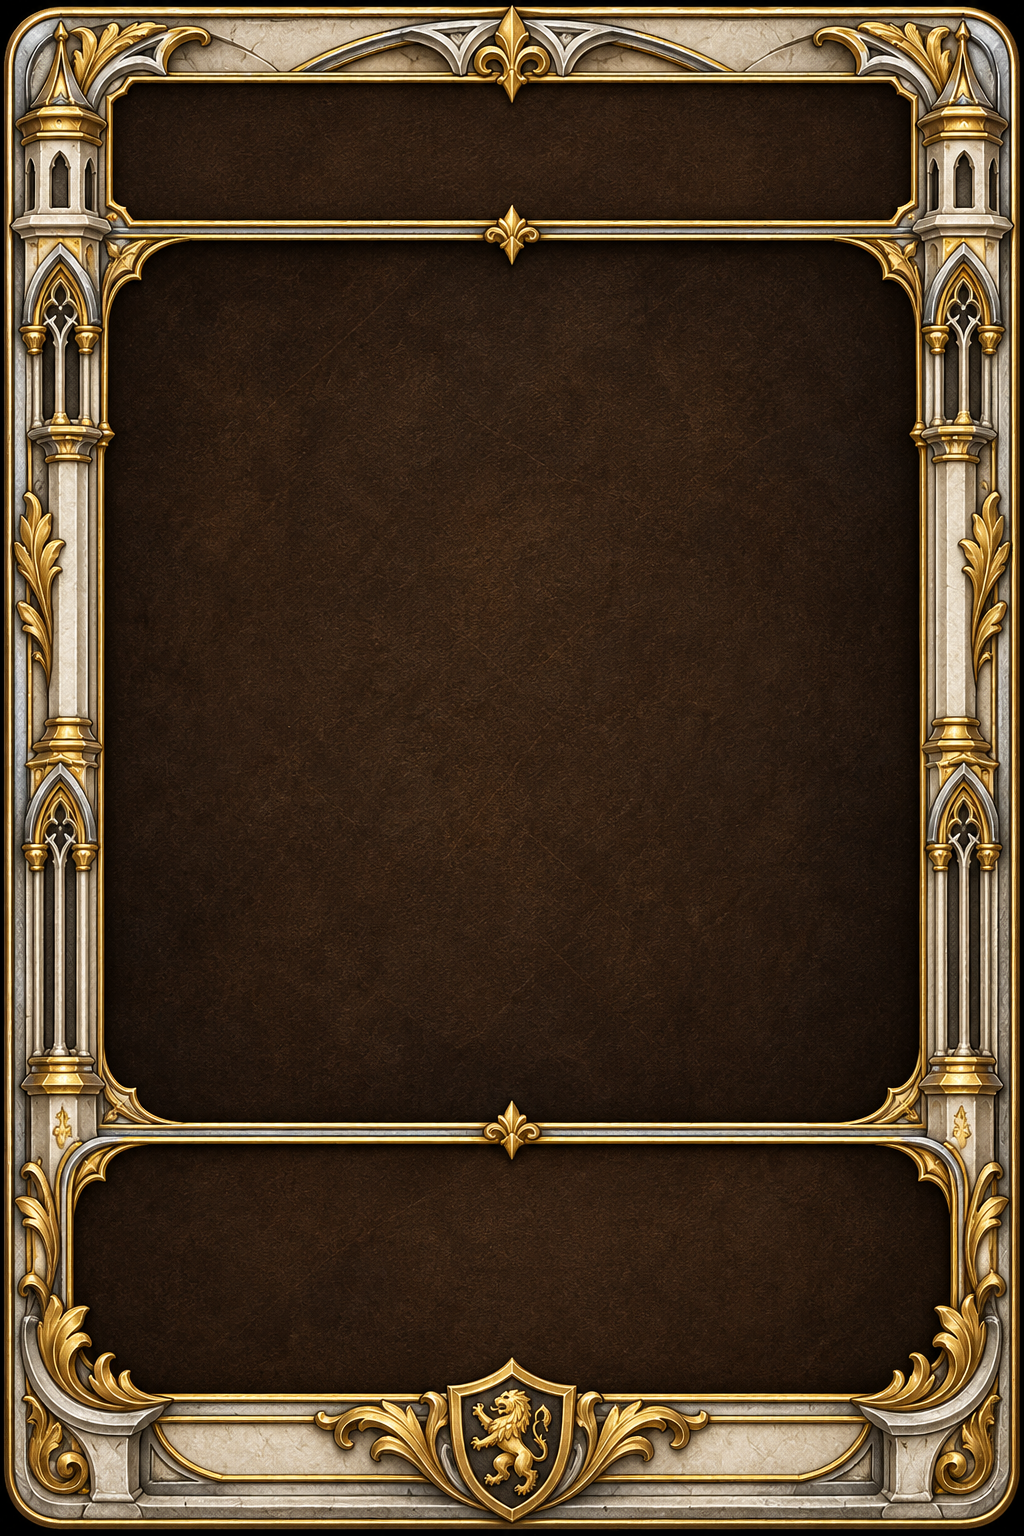
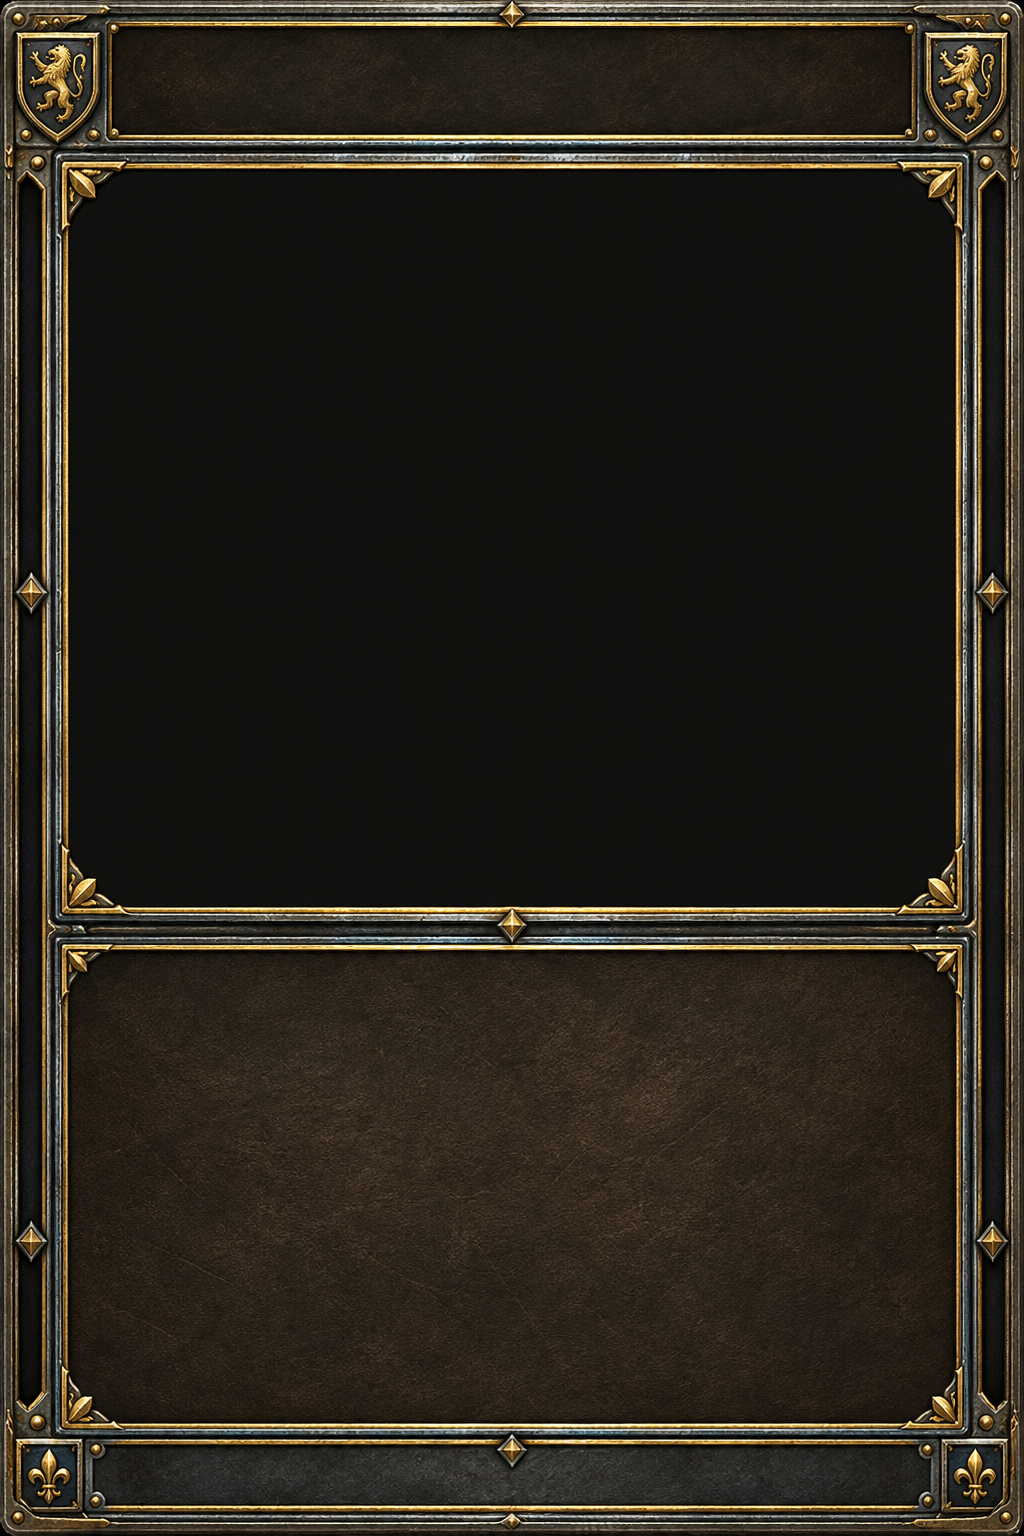
Replace Human building card frame and integrate live text with its panels

diff --git a/src/styles/human-cards.css b/src/styles/human-cards.css
@@ -1,21 +1,44 @@
-/* The human frame has carved stone columns and gold heraldry, not Orc timber
-   or Undead bones. Its category enamel is a separate, consistent UI layer. */
-.humanFrameAccent { position:absolute!important;inset:0;width:100%;height:100%;pointer-events:none;z-index:3!important;fill:var(--card-border);stroke:var(--card-border);stroke-width:.7;filter:drop-shadow(0 0 1px #111); }
-.humanFrameAccent path:first-child { fill:none;stroke-width:.8; }
-html body .illustratedCard:has(>.humanFrameAccent) .cardIllustration { display:none!important; }
-html body .illustratedCard:has(>.humanFrameAccent) .cardScene { left:11%!important;top:16%!important;width:78%!important;height:53.3%!important; }
-html body .illustratedCard:has(>.humanFrameAccent) .cardTextBackdrop { left:11%;right:11%;top:69.5%;bottom:9%; }
-html body .illustratedCard:has(>.humanFrameAccent) .constructionPrice { right:13%;bottom:32%; }
-html body .illustratedCard:has(>.humanFrameAccent) .uniqueBuildingMark { top:17%;right:13%; }
-html body .cardFace:has(>.humanFrameAccent) .rlCodexTitle { left:13%;top:5.5%;width:74%;height:8.5%; }
-html body .cardFace:has(>.humanFrameAccent) .rlCodexIcon { left:11%;top:16%;width:78%;height:53.3%; }
-html body .cardFace:has(>.humanFrameAccent) .rlCodexContent { left:13%;top:71%;width:74%;height:19%; }
-html body[data-ui-scale] #choiceOverlay #choiceList .choice.gamecard.illustratedCard:has(>.humanFrameAccent) h3 { left:13%!important;top:5.5%!important;width:74%!important;height:8.5%!important; }
-html body[data-ui-scale] #choiceOverlay #choiceList .choice.gamecard.illustratedCard:has(>.humanFrameAccent) .choiceArt.card-media { left:11%!important;top:16%!important;width:78%!important;height:53.3%!important; }
-html body[data-ui-scale] #choiceOverlay #choiceList .choice.gamecard.illustratedCard:has(>.humanFrameAccent) .choiceBody { left:13%!important;top:71%!important;width:74%!important;height:19%!important; }
-html body .buildcard.illustratedBuildCard:has(>.humanFrameAccent) .cardname { left:13%!important;top:5.5%!important;width:74%!important;height:8.5%!important; }
-html body .buildcard.illustratedBuildCard:has(>.humanFrameAccent) .cardart { left:11%!important;top:16%!important;width:78%!important;height:53.3%!important; }
-html body .buildcard.illustratedBuildCard:has(>.humanFrameAccent) .cardinfo { left:13%!important;top:71%!important;width:74%!important;height:19%!important; }
-html body .illustratedCard:has(>.humanFrameAccent) :is(.cardFooter,.choiceFooter) { left:12%!important;right:auto!important;width:26%!important;bottom:3%!important;font-size:2.5cqw!important;text-align:left!important; }
+/* One measured layout for the Human steel/brass frame in picks, codex and
+   construction previews. The generated panel itself backs all live text. */
+.humanFrameAccent {
+  position:absolute!important;inset:0;width:100%;height:100%;pointer-events:none;
+  z-index:3!important;fill:none;stroke:var(--card-border);stroke-width:1.1;
+  opacity:.9;filter:drop-shadow(0 0 1px #000);
+}
+html body .illustratedCard:has(>.humanFrameAccent) .cardTextBackdrop { display:none; }
+html body .illustratedCard:has(>.humanFrameAccent) .cardScene {
+  left:6.5%!important;top:11.7%!important;width:87%!important;height:46.3%!important;
+  clip-path:polygon(3% 0,97% 0,100% 4%,100% 96%,97% 100%,3% 100%,0 96%,0 4%);
+}
+html body .illustratedCard:has(>.humanFrameAccent) .constructionPrice { right:8%;bottom:43%; }
+html body .illustratedCard:has(>.humanFrameAccent) .uniqueBuildingMark { top:13.5%;right:8.5%; }
 
-html body .illustratedCard:has(>.humanFrameAccent) .pickFootprint.inArtwork { left:13%!important;bottom:32%!important; }
+html body .cardFace:has(>.humanFrameAccent) .rlCodexTitle,
+html body[data-ui-scale] #choiceOverlay #choiceList .choice.gamecard.illustratedCard:has(>.humanFrameAccent) h3,
+html body :is(#buildList .buildcard,.buildCardPreview).illustratedCard:has(>.humanFrameAccent) .cardname {
+  left:13%!important;top:1.8%!important;width:74%!important;height:7%!important;
+}
+html body .cardFace:has(>.humanFrameAccent) .rlCodexIcon,
+html body[data-ui-scale] #choiceOverlay #choiceList .choice.gamecard.illustratedCard:has(>.humanFrameAccent) .choiceArt.card-media,
+html body :is(#buildList .buildcard,.buildCardPreview).illustratedCard:has(>.humanFrameAccent) .cardart {
+  left:6.5%!important;top:11.7%!important;width:87%!important;height:46.3%!important;
+}
+html body .cardFace:has(>.humanFrameAccent) .rlCodexContent,
+html body[data-ui-scale] #choiceOverlay #choiceList .choice.gamecard.illustratedCard:has(>.humanFrameAccent) .choiceBody,
+html body :is(#buildList .buildcard,.buildCardPreview).illustratedCard:has(>.humanFrameAccent) .cardinfo {
+  left:9%!important;top:63%!important;width:82%!important;height:28.5%!important;
+  background:none!important;border:0!important;box-shadow:none!important;
+}
+html body .illustratedCard:has(>.humanFrameAccent) :is(.cardFooter,.choiceFooter) {
+  left:13%!important;right:auto!important;width:74%!important;bottom:2%!important;
+  height:3%!important;font-size:2.8cqw!important;text-align:center!important;
+}
+html body[data-ui-scale] #choiceOverlay #choiceList .choice.gamecard.illustratedCard:has(>.humanFrameAccent) .choiceFooter {
+  inset:auto 13% 2%!important;width:74%!important;height:3%!important;
+}
+html body :is(#buildList .buildcard,.buildCardPreview).illustratedCard:has(>.humanFrameAccent) .cardFooter {
+  inset:auto 13% 2%!important;width:74%!important;height:3%!important;
+}
+html body .illustratedCard:has(>.humanFrameAccent) .pickFootprint.inArtwork {
+  left:8%!important;bottom:43%!important;
+}

diff --git a/src/ui/card-presentation.js b/src/ui/card-presentation.js
@@ -37,8 +37,16 @@ export function cardFrameUrl(id, kind, race) {
   const file = manifest.cards[`${building ? 'building' : 'upgrade'}:${key}`];
   return file ? assetUrl('cards/orc/' + file) : '';
 }
-export const frameImage = (src, eager = false) => src
-  ? `${src.endsWith('/cards/human/frame.png')?'<svg class="humanFrameAccent" viewBox="0 0 100 150" preserveAspectRatio="none" aria-hidden="true"><path d="M3 6V144M97 6V144M12 22.5H88M12 104H88"/><path d="m5 3 2 3-2 3-2-3Zm90 0 2 3-2 3-2-3ZM5 141l2 3-2 3-2-3Zm90 0 2 3-2 3-2-3Z"/></svg>':''}<img class="cardFrameImage" ${cardImageSource(src)} alt="" loading="${eager ? 'eager' : 'lazy'}" decoding="async" draggable="false"><img class="cardIllustration" ${cardImageSource(src)} alt="" loading="${eager ? 'eager' : 'lazy'}" decoding="async" draggable="false">` : '';
+export function frameImage(src, eager = false) {
+  if (!src) return '';
+  const human=src.endsWith('/cards/human/frame.png'), loading=eager?'eager':'lazy';
+  const accent=human?'<svg class="humanFrameAccent" viewBox="0 0 100 150" preserveAspectRatio="none" aria-hidden="true"><path d="M2.9 17V86M97.1 17V86M2.9 95V139M97.1 95V139"/></svg>':'';
+  const frame=`<img class="cardFrameImage" ${cardImageSource(src)} alt="" loading="${loading}" decoding="async" draggable="false">`;
+  // Human cards have their own empty aperture and integrated writing panel.
+  // Only older full-card illustrations need a second clipped image layer.
+  const illustration=human?'':`<img class="cardIllustration" ${cardImageSource(src)} alt="" loading="${loading}" decoding="async" draggable="false">`;
+  return accent+frame+illustration;
+}
 
 export const cardTextBackdrop = '<span class="cardTextBackdrop" aria-hidden="true"></span>';
 

diff --git a/src/config/app.js b/src/config/app.js
@@ -1,6 +1,6 @@
 export const APP = Object.freeze({
-  version: '4.58.2',
-  label: 'V4.58.2 · FAJOK ÉS TERÜLETEK',
+  version: '4.58.3',
+  label: 'V4.58.3 · EMBERI KÁRTYÁK',
   title: 'Roadlords – Fajok és területek',
   repository: 'krisztianmatekiss/Roadlords',
   musicRoot: 'https://raw.githubusercontent.com/krisztianmatekiss/roadlords-music/main/',

diff --git a/README.md b/README.md
@@ -1,4 +1,14 @@
-# Roadlords · V4.58.2
+# Roadlords · V4.58.3
+
+## V4.58.3 – Új emberi épületkártyakeret
+
+- Új, vékony acél–arany keret mind a 23 aktív emberi épülethez, a hozzájuk tartozó fejlesztés- és L4-kártyákon is.
+- A leírás a keret saját, nagyobb alsó paneljére kerül; a külön barna fedőlap és a felesleges második képréteg eltűnt az emberi épületkártyákról.
+- Közös illesztés a választóképernyőn, lexikonban, építési sávban és a nagyított előnézeten. Zöld gazdasági, vörös katonai és kék támogató betétek; a költség és területjelölés a képen marad.
+- A helyi keret változatlan képpontokat őrző WebP-változata 1,48 MB, a korábbi 1,99 MB helyett. A régi, már nem hivatkozott webes keret kikerült.
+- Ellenőrzés: szövegillesztés 800/1366/1920 szélességen; kártyaillesztés 1280×800, 1600×1000, 1920×1080 és 2840×2180 méreten; építési előnézet 75/100/150%-os felületmérettel; kezdeti képletöltés és képdekódolás.
+
+[Képernyőkép az új keretről](public/previews/human-cards-4.58.3.png).
 
 ## V4.58.2 – AI-döntések és erősítésküldés
 
